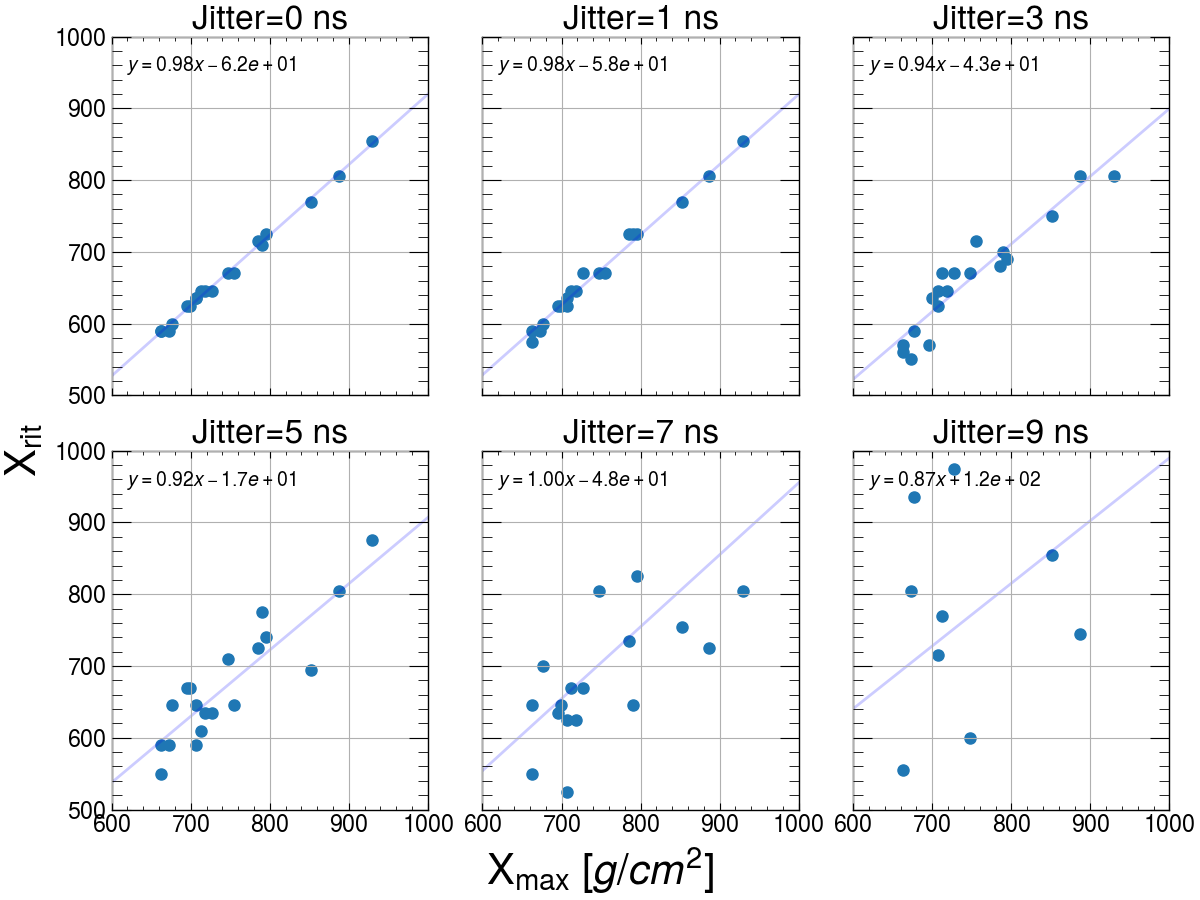
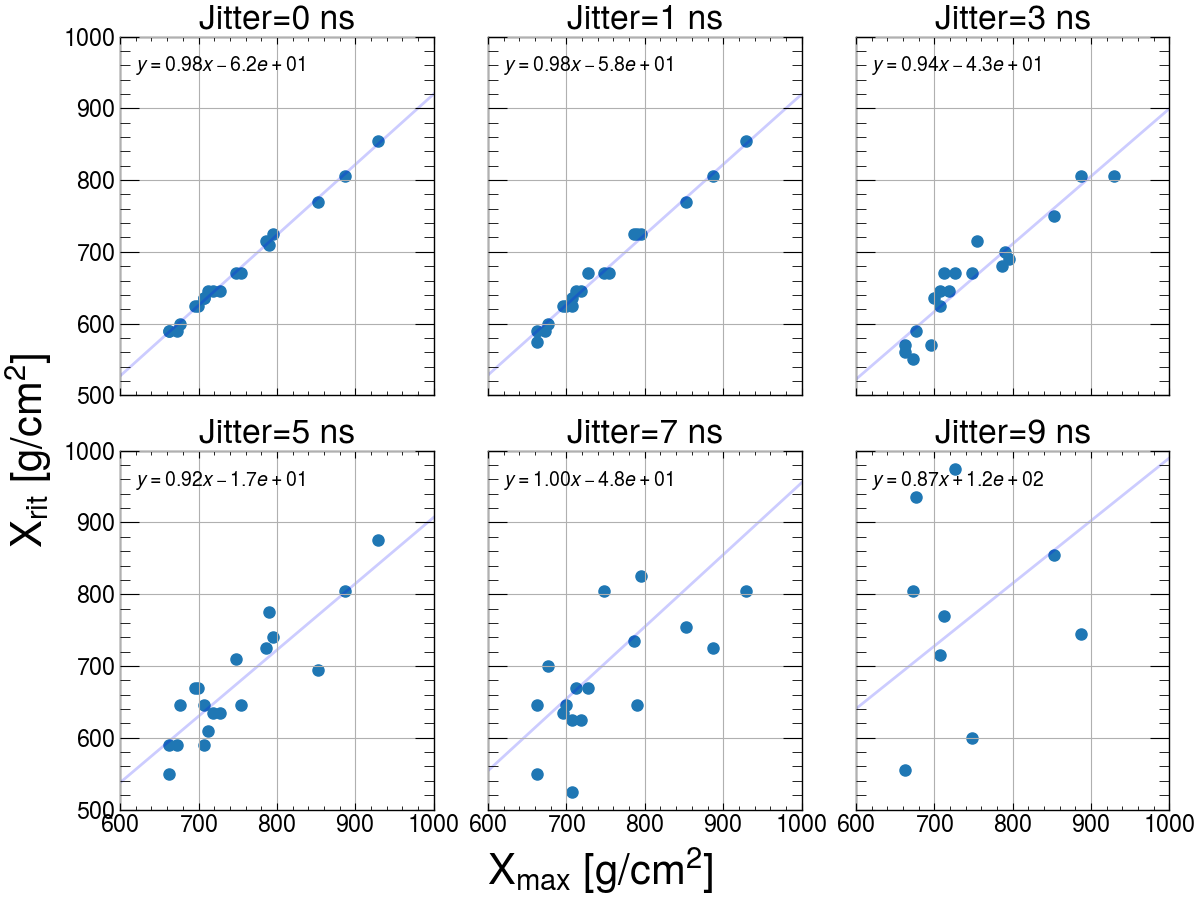
update 234

diff --git a/chapt7 int_xmax/xrit_xmax.py b/chapt7 int_xmax/xrit_xmax.py
@@ -36,7 +36,7 @@ for ax in axes.flat:
 #fig.colorbar(im, ax=axes.ravel().tolist(),label="|x$_{max}$ - x$_{max} rit$|")
 plt.ylim(500, 1000)
 plt.xlim(600, 1000)
-fig.supxlabel('X$_{\mathrm{max}} ~[g/cm^2]$',fontsize=30)
-fig.supylabel('X$_{\mathrm{rit}}$',fontsize=30)
+fig.supxlabel('X$_{\mathrm{max}}$ [g/cm$^2$]',fontsize=30)
+fig.supylabel('X$_{\mathrm{rit}}$ [g/cm$^2$]',fontsize=30)
 plt.savefig('xmaxs.png')
 plt.show()
